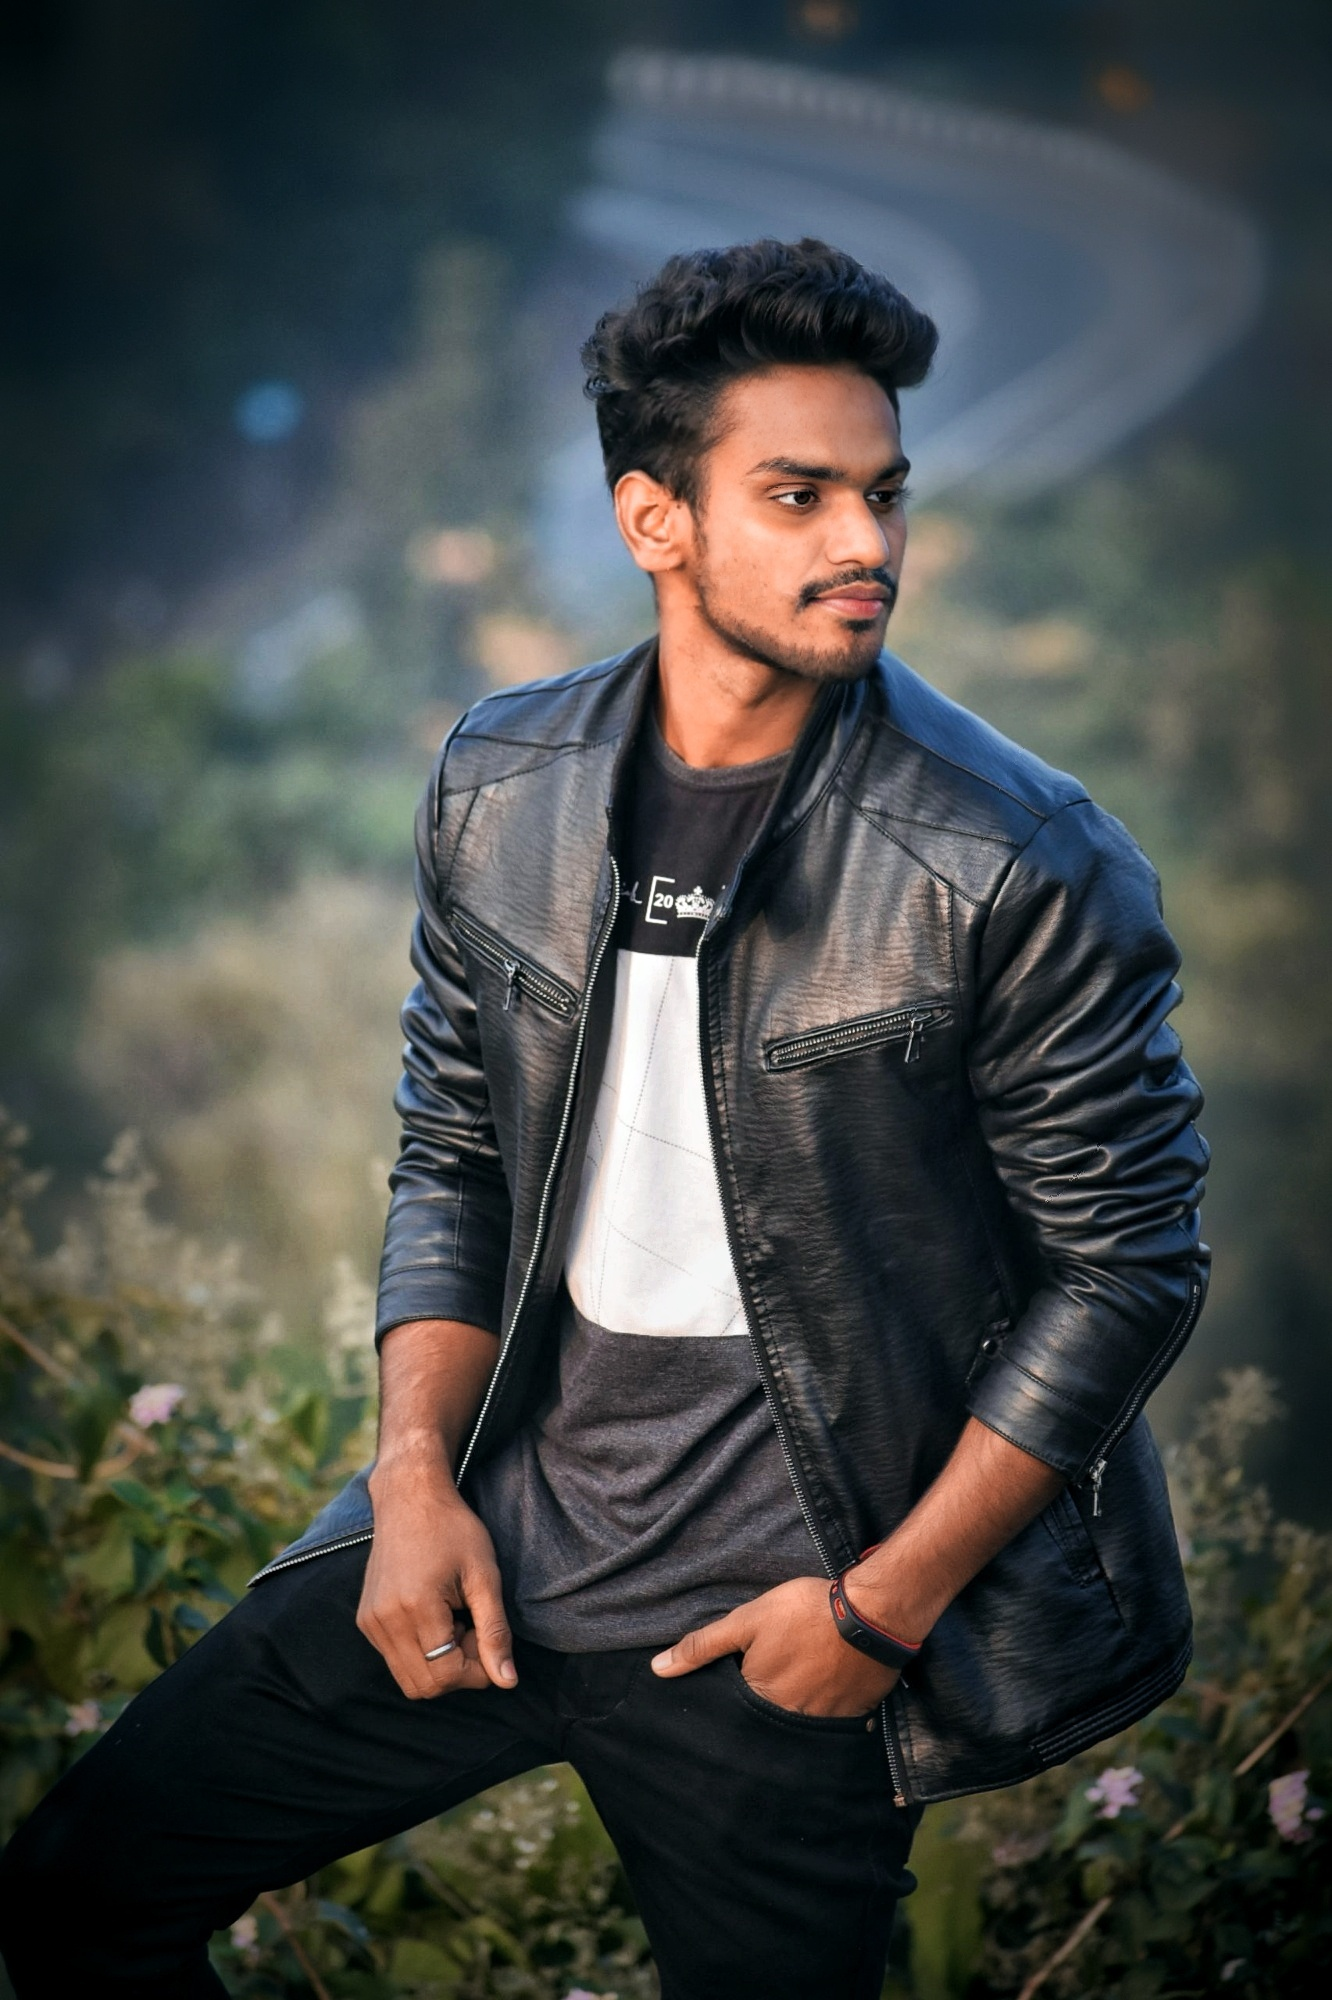
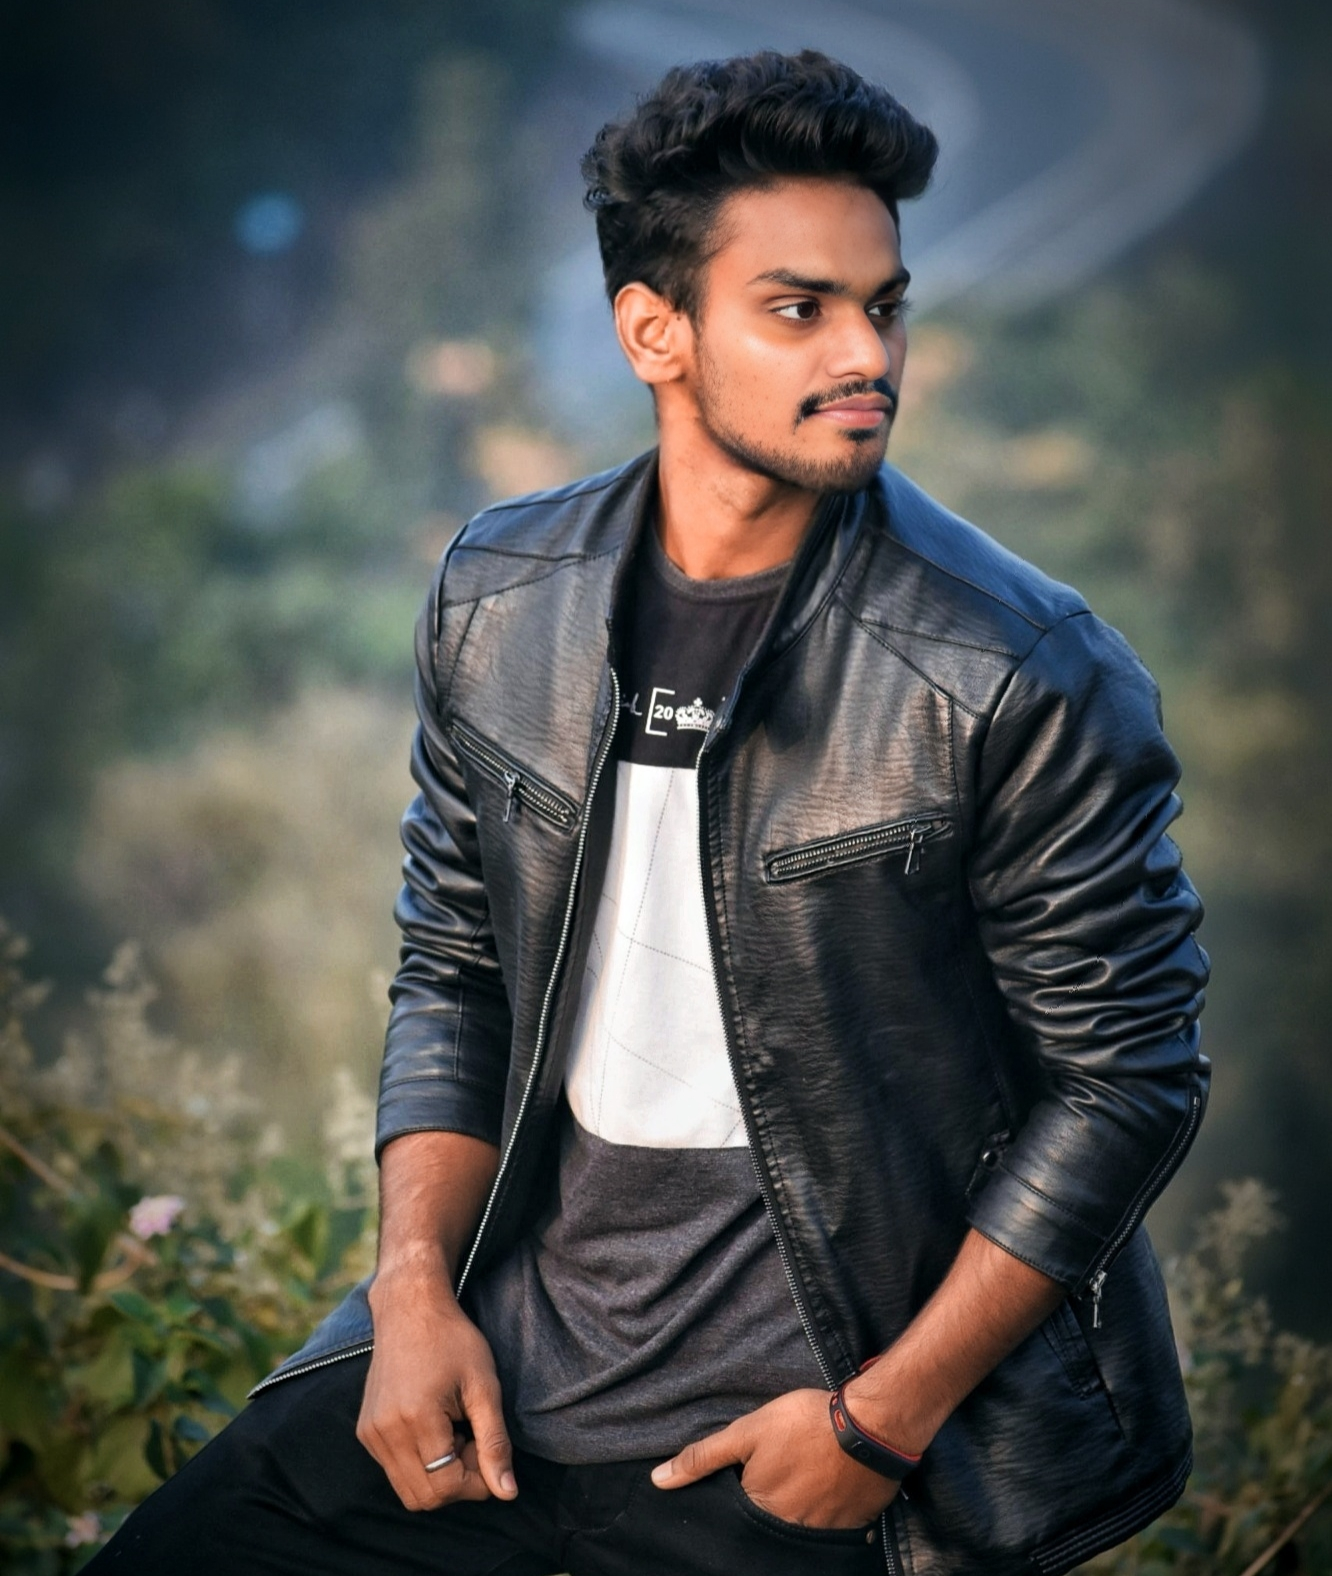
update profile image

diff --git a/index.html b/index.html
@@ -55,7 +55,7 @@
     <div class="d-flex flex-column">
 
       <div class="profile">
-        <img src="./assets/img/profile1.png" alt="profile" class="img-fluid rounded-circle">
+        <img src="./assets/img/pro1.jpg" alt="profile" class="img-fluid rounded-circle">
         <h1 class="text-light"><a href="index.html">Boobalan R</a></h1>
         <div class="social-links mt-3 text-center">
           <a href="https://github.com/BoobalanRP" class="twitter"><i class="bx bxl-github"></i></a>
@@ -102,7 +102,7 @@
 
         <div class="row">
           <div class="col-lg-4" data-aos="fade-right">
-            <img src="assets/img/profile1.png" class="img-fluid" alt="">
+            <img src="assets/img/pro1.jpg" class="img-fluid" alt="">
           </div>
           <div class="col-lg-8 pt-4 pt-lg-0 content" data-aos="fade-left">
             <h3>Full Stack Developer</h3>
